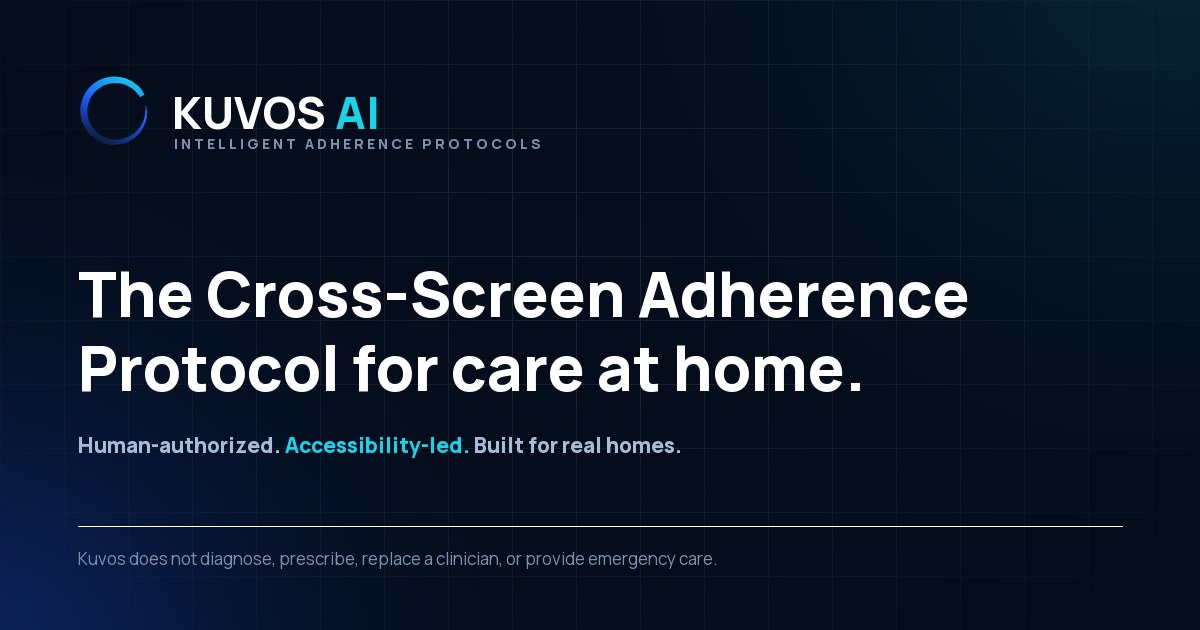
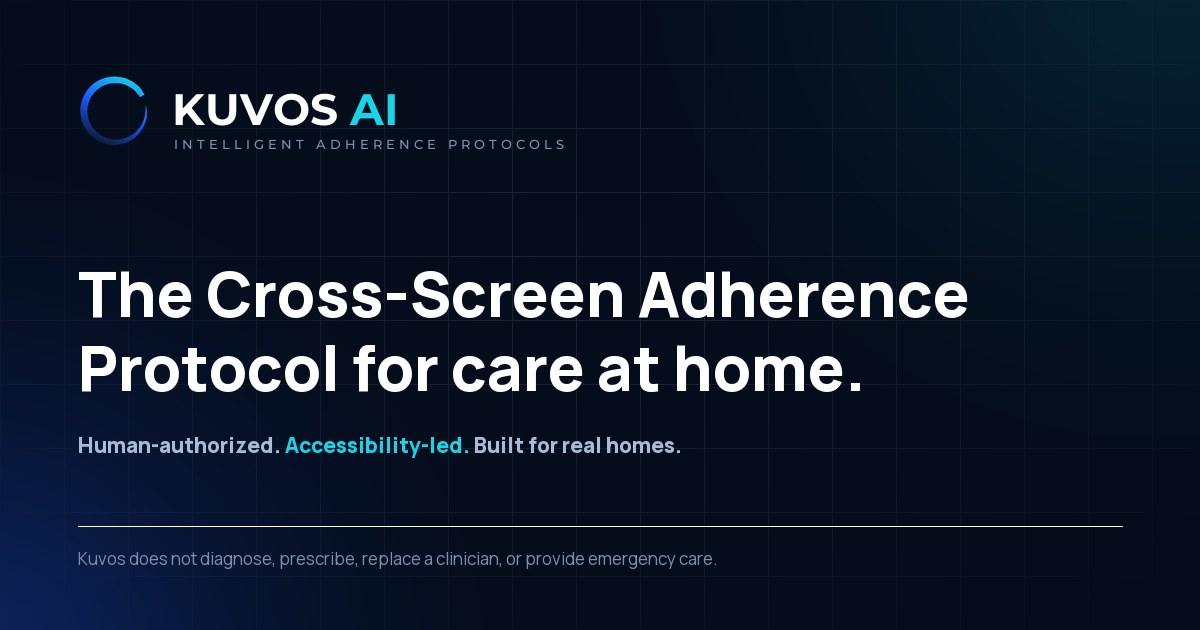
Set the wordmark in Montserrat, at the weights the artwork actually uses
Vipasana asked for Montserrat on "kuvos" only, not the page. Added --f-mark and
applied it to .logo-txt, so the header, footer and drawer lockups pick it up
together and every other element stays Manrope.

Weights are measured from the supplied artwork rather than eyeballed. Her
"KUVOS AI" has a stem-to-cap ratio of 0.216; Montserrat 700 measures 0.225 and
800 measures 0.275, so 700 is the match and 800 would be visibly heavier than
her logo. The tagline measures 0.133, closest to Montserrat 500.

The stacked artwork is a different lockup again — lowercase "kuvos" in
Montserrat 400 (ratio 0.118) with no "AI" — so kuvos-lockup-stacked.svg now
reproduces that faithfully, using her measured ring/wordmark/tagline
proportions, while kuvos-lockup.svg remains the uppercase header lockup.

Montserrat is wider than Manrope, and the header has broken twice before, so
the fit was re-measured: 14px clearance at 320px, no collision or overflow at
any width.

- Add Montserrat 400/500/700 to the font link in index.html and 404.html
- Rebuild both lockup SVGs and regenerate og-card.jpg
- Record the weights and the measurements in bible section 4 and the brand README
- Add two tests: the lockup is Montserrat 700/500, the page stays Manrope, and
  Montserrat genuinely loads rather than silently falling back

123/123 passing.

Changed region(s): [[0.1542, 0.1508, 0.4625, 0.2413]]

diff --git a/assets/css/styles.css b/assets/css/styles.css
@@ -44,6 +44,7 @@
 
   --f:"Manrope",-apple-system,BlinkMacSystemFont,"Segoe UI",Helvetica,Arial,sans-serif;
   --f-acc:"Instrument Serif",Georgia,"Times New Roman",serif;
+  --f-mark:"Montserrat",var(--f);   /* the wordmark only — matches the supplied logo */
 
   --t-hero:clamp(2.2rem,7.2vw,4.8rem);
   --t-h2:clamp(1.75rem,5vw,3.2rem);
@@ -127,11 +128,11 @@ em,.acc{font-family:var(--f-acc);font-style:italic;font-weight:400;letter-spacin
 @media(min-width:700px){.hdr-in{height:76px}}
 .logo{display:flex;align-items:center;gap:10px;min-width:0;min-height:42px}
 .logo .ring{width:26px;height:26px;flex:0 0 auto}
-.logo-txt b{display:block;font-weight:800;font-size:1.02rem;letter-spacing:-.02em;line-height:1;
-  color:var(--white);white-space:nowrap}
+.logo-txt b{display:block;font-family:var(--f-mark);font-weight:700;font-size:1.02rem;
+  letter-spacing:-.01em;line-height:1;color:var(--white);white-space:nowrap}
 .logo-txt b i{font-style:normal;color:var(--aqua)}
-.logo-txt small{display:none;font-size:.47rem;letter-spacing:.17em;color:var(--on-dark-2);
-  font-weight:800;margin-top:4px;white-space:nowrap}
+.logo-txt small{display:none;font-family:var(--f-mark);font-size:.47rem;letter-spacing:.17em;
+  color:var(--on-dark-2);font-weight:500;margin-top:4px;white-space:nowrap}
 @media(min-width:560px){.logo .ring{width:31px;height:31px}.logo-txt b{font-size:1.15rem}.logo-txt small{display:block}}
 .nav{display:none;gap:26px;margin-inline:auto;font-size:var(--t-sm);font-weight:700;color:var(--on-dark-hi)}
 .nav a{position:relative;padding-block:6px;transition:color .3s}

diff --git a/index.html b/index.html
@@ -33,7 +33,7 @@
 
 <link rel="preconnect" href="https://fonts.googleapis.com">
 <link rel="preconnect" href="https://fonts.gstatic.com" crossorigin>
-<link href="https://fonts.googleapis.com/css2?family=Manrope:wght@400;500;600;700;800&family=Instrument+Serif:ital@0;1&display=swap" rel="stylesheet">
+<link href="https://fonts.googleapis.com/css2?family=Manrope:wght@400;500;600;700;800&family=Montserrat:wght@400;500;700&family=Instrument+Serif:ital@0;1&display=swap" rel="stylesheet">
 <link rel="stylesheet" href="assets/css/styles.css">
 <script src="assets/js/main.js" defer></script>
 <script type="application/ld+json">

diff --git a/404.html b/404.html
@@ -15,7 +15,7 @@
 <link rel="manifest" href="/site.webmanifest">
 <link rel="preconnect" href="https://fonts.googleapis.com">
 <link rel="preconnect" href="https://fonts.gstatic.com" crossorigin>
-<link href="https://fonts.googleapis.com/css2?family=Manrope:wght@400;500;600;700;800&family=Instrument+Serif:ital@0;1&display=swap" rel="stylesheet">
+<link href="https://fonts.googleapis.com/css2?family=Manrope:wght@400;500;600;700;800&family=Montserrat:wght@400;500;700&family=Instrument+Serif:ital@0;1&display=swap" rel="stylesheet">
 <link rel="stylesheet" href="/assets/css/styles.css">
 </head>
 <body>

diff --git a/KUVOS-BIBLE.md b/KUVOS-BIBLE.md
@@ -103,10 +103,20 @@ fields, fitness or celebrity imagery.
 
 ### Type
 - **Manrope** 400–800 — everything structural. Headings at 800, `letter-spacing: -.038em`.
+- **Montserrat** — **the wordmark only.** `--f-mark`, applied to `.logo-txt` so the
+  header, footer and drawer lockups pick it up together. Nothing else on the page uses
+  it. `KUVOS AI` at **700**, tagline at **500**. Those weights are measured from the
+  supplied artwork, not chosen: her wordmark has a stem-to-cap ratio of 0.216, and
+  Montserrat 700 is 0.225 against 800's 0.275. Do not "round up" to 800 — it is visibly
+  heavier than the logo.
 - **Instrument Serif italic** — the accent phrase inside a headline. One per heading,
   never more. Wrapped in `<em>`. Examples: *care at home*, *held, not guessed*,
   *observable between encounters*.
 - Fluid scale via `clamp()`. Measure: `h2` capped at 18ch, body at 58ch.
+
+> The stacked artwork (`assets/brand/source/logo-stacked.jpeg`) sets *lowercase* "kuvos"
+> in Montserrat **400** — a different lockup from the header's uppercase `KUVOS AI`.
+> `kuvos-lockup-stacked.svg` reproduces it; `kuvos-lockup.svg` is the header lockup.
 
 ### Logo
 The Loop Leaf / ring mark is inline SVG using `url(#lg)` — an aqua→signal→navy gradient

diff --git a/assets/brand/README.md b/assets/brand/README.md
@@ -42,6 +42,19 @@ The supplied artwork's midtone is a cyan-blue (~`#0A91D1`) rather than
 match to the JPEG instead, change the middle stop — in `kuvos-mark.svg`,
 `kuvos-lockup*.svg` **and** the `#lg` gradient in `index.html`.
 
+## Type
+
+The wordmark is **Montserrat**; everything else on the site stays Manrope. The weights
+are measured from the supplied artwork rather than guessed:
+
+| Asset | Set in | Measured stem/cap |
+|---|---|---|
+| `KUVOS AI` (header lockup) | Montserrat **700** | artwork 0.216 · Montserrat 700 = 0.225 |
+| `kuvos` (stacked artwork) | Montserrat **400** | artwork 0.118 · Montserrat 400 = 0.138 |
+| tagline | Montserrat **500** | artwork 0.133 · Montserrat 500 = 0.145 |
+
+Montserrat 800 measures 0.275 — noticeably heavier than the logo. Don't use it.
+
 ## Lockup rules (bible §4)
 
 - `KUVOS AI` — `AI` in Electric Aqua `#19D3E8`
